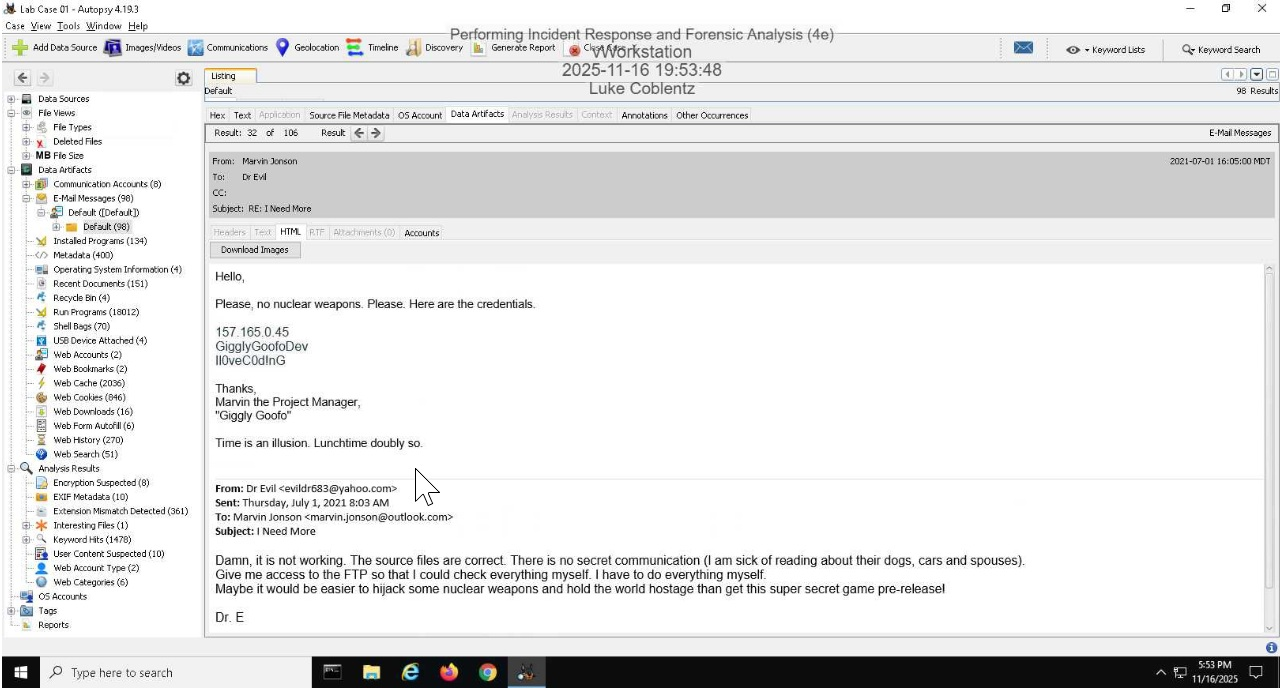
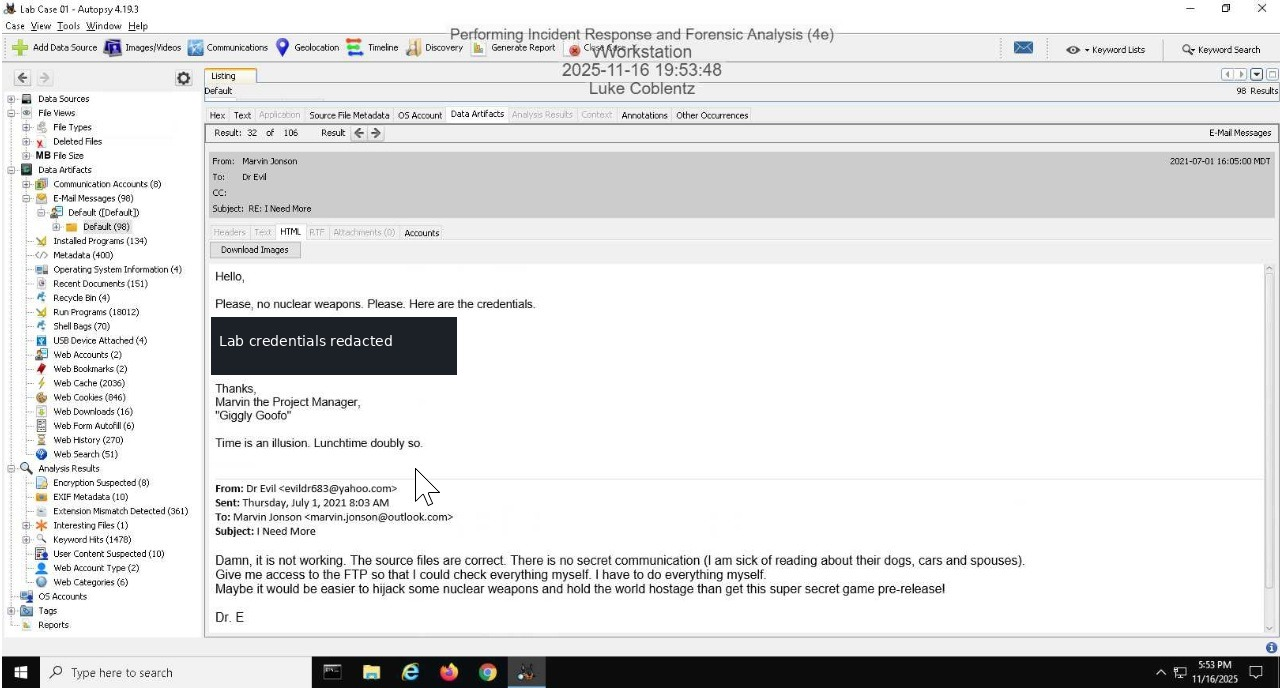
Fix cyber lab documentation and organize evidence

Changed region(s): [[0.1562, 0.4578, 0.375, 0.5494]]

diff --git a/README.md b/README.md
@@ -9,7 +9,7 @@ This repository documents hands-on coursework involving network traffic inspecti
 | Project | Focus | Tools | Documentation |
 |---|---|---|---|
 | **Incident Response & Forensic Analysis** | Investigating suspicious transfers, compromised credentials, and attack timelines in a simulated scenario | Wireshark, Autopsy, Windows Event Logs | [View case study](incident-response.md) |
-| **Network Traffic Analysis** | Inspecting network protocols, comparing plaintext and encrypted communications, and analyzing wireless traffic | Wireshark, Kali Linux | [View case study](packet-analysis.md) |
+| **Network Traffic Analysis** | Inspecting network protocols, documenting an SFTP transfer, and analyzing wireless traffic | Wireshark, FileZilla, Kali Linux | [View case study](packet-analysis.md) |
 | **Vulnerability Assessment & Penetration Testing** | Host discovery, service enumeration, vulnerability assessment, and risk-based remediation | Nmap, Zenmap, Nessus, Kali Linux | [View case study](vulnerability-assessment.md) |
 
 ## Areas of Practice
@@ -24,6 +24,7 @@ This repository documents hands-on coursework involving network traffic inspecti
 ```text
 cyber-labs/
 ├── README.md
+├── EVIDENCE-REVIEW.md
 ├── incident-response.md
 ├── packet-analysis.md
 ├── vulnerability-assessment.md
@@ -33,11 +34,11 @@ cyber-labs/
     └── va-*.jpg  # Vulnerability assessment
 ```
 
-Each project document contains its own objectives, analysis, screenshots, and takeaways. Follow the links in the project table to explore them.
+Each project document contains its own objectives, analysis, screenshots, and takeaways. The screenshots are educational-lab artifacts; captions distinguish visible evidence from interpretation. Follow the links in the project table to explore them.
 
 ## Context & Responsible Use
 
-These are **coursework case studies in controlled training environments**, not claims of authorized testing against production networks. The screenshots illustrate specific lab observations and should be interpreted alongside the individual write-ups. Information from a course scenario is presented for educational purposes.
+These are **coursework case studies in controlled training environments**, not claims of authorized testing against production networks. The screenshots illustrate specific lab observations and should be interpreted alongside the individual write-ups. A FileZilla screenshot displays **SFTP** (not plaintext FTP), and the case-study login values in the incident-response image have been redacted. See [Evidence Review](EVIDENCE-REVIEW.md) for details. Information from a course scenario is presented for educational purposes.
 
 ## Related Work
 

diff --git a/incident-response.md b/incident-response.md
@@ -13,6 +13,7 @@ This project simulates a real-world incident response investigation involving cr
 
 ## Tools Used
 - Wireshark  
+- NetWitness Investigator  
 - Autopsy (Digital Forensics)  
 - Windows Event Logs  
 
@@ -83,38 +84,34 @@ This project simulates a real-world incident response investigation involving cr
 
 ## Screenshots
 
-### Network Activity Timeline
-![Time Graph](screenshots/ir-1-time-graph.jpg)
+*Images are from a simulated course environment. Captions describe what each screenshot visibly supports; see [Evidence Review](EVIDENCE-REVIEW.md).*
 
-This time graph shows spikes in network activity during the incident window, indicating abnormal behavior and potential data exfiltration.
-
----
 
 ### Suspicious Session Analysis
 ![Session Details](screenshots/ir-2-session-details.jpg)
 
-Detailed session analysis revealed FTP activity involving file transfers (.zip and .exe), suggesting unauthorized data movement and possible malware transfer.
+The NetWitness session details show traffic involving an external address, an internal host, FTP activity, ZIP filenames, and an executable filename. These are investigation leads; the screenshot alone does not establish that each file was malicious or exfiltrated.
 
 ---
 
 ### Compromised Credentials Evidence
 ![FTP Credentials](screenshots/ir-3-ftp-credential-email.jpg)
 
-An email containing FTP credentials was identified, confirming that sensitive login information was exposed and used by the attacker.
+An email in the educational case-study dataset contains FTP connection details in its body. The host and login values are redacted in this public version. The email supports a credential-exposure finding; the broader investigation is needed to assess misuse.
 
 ---
 
 ### Malware Activity Timeline
 ![Keylogger Evidence](screenshots/ir-4-keylogger-evidence.jpg)
 
-System timeline analysis revealed events associated with a keylogger, confirming malware installation and persistence on the compromised system.
+Autopsy timeline entries include file activity associated with an `ActualKeylogger` path. These artifacts support investigation of possible keylogger installation; the screenshot by itself does not prove execution or persistence.
 
 ---
 
 ### Phishing / Social Engineering Evidence
 ![Phishing Email](screenshots/ir-5-phishing.jpg)
 
-Email communications demonstrate social engineering tactics used to manipulate the user into installing malicious software, leading to system compromise.
+An email in the lab dataset includes instructions to install a keylogger and a related link. It documents a social-engineering indicator; installation and impact require corroborating forensic evidence.
 
 ---
 

diff --git a/EVIDENCE-REVIEW.md b/EVIDENCE-REVIEW.md
@@ -1,0 +1,23 @@
+# Screenshot Evidence Review
+
+This file records corrections made while preparing the public portfolio version of the **ISM 4323 — Information Security and Risk Management** cybersecurity labs.
+
+## Corrections applied
+
+| Area | Issue | Correction |
+|---|---|---|
+| Incident response | `ir-1-time-graph.jpg` was captioned as a traffic activity graph, but actually showed a FileZilla SFTP client from the separate packet-analysis exercise. It duplicated another screenshot. | Removed it from the incident response write-up and from the repository. The remaining screenshots document the actual incident-response lab. |
+| Network traffic | `pa-1-ftp-transfer.jpg` shows `sftp://` in FileZilla, not unencrypted FTP. | Renamed it `pa-1-sftp-transfer.jpg`, updated the Markdown link, and corrected the description. |
+| Incident response | The email evidence screenshot exposed a simulated scenario's server/login credentials. | Covered the three credential lines in `ir-3-ftp-credential-email.jpg` without removing the rest of the email context. |
+| Evidence language | Several original captions stated a stronger conclusion than a single screenshot established. | Rewrote the affected descriptions to separate what is visible from what requires additional case-study evidence. |
+
+## Evidence inventory
+
+- **Incident response:** 4 distinct screenshots — NetWitness session, redacted Autopsy email, Autopsy timeline, and Autopsy email/social-engineering evidence.
+- **Packet analysis:** 5 distinct screenshots — FileZilla SFTP, Wireshark ICMP, Wireshark HTTP, Wireshark SSH, and a wireless deauthentication test.
+- **Vulnerability assessment:** 6 distinct screenshots — Zenmap/Nmap scanning, Nessus summary, and traceroute.
+- **Total:** **15 unique image files**. All Markdown image references were checked to resolve to files in this repository.
+
+## Scope and limitations
+
+This repository contains self-authored coursework summaries from controlled training environments. Screenshots show selected activities and artifacts; they do **not**, by themselves, verify every investigative conclusion or the full technical configuration. Public-facing screenshots and explanations should not be interpreted as production incidents, live targets, or a certification of professional penetration-testing work.

diff --git a/packet-analysis.md b/packet-analysis.md
@@ -13,6 +13,7 @@ This project demonstrates network traffic analysis using Wireshark to inspect an
 
 ## Tools Used
 - Wireshark  
+- FileZilla  
 - Kali Linux  
 - Network simulation environment  
 
@@ -20,10 +21,10 @@ This project demonstrates network traffic analysis using Wireshark to inspect an
 
 ## Analysis Summary
 
-### 1. File Transfer Traffic (FTP vs SFTP)
-- Observed FTP traffic transmitting data in plaintext  
-- Identified file transfers including credentials and filenames  
-- Compared with SFTP traffic, which encrypts all communication  
+### 1. File Transfer Security (SFTP and FTP comparison)
+- Observed a **FileZilla SFTP session** connecting to a simulated server and listing transferred files  
+- Compared SFTP (transport over SSH) with the confidentiality risks of traditional plaintext FTP  
+- Identified filenames and session status in the SFTP client; the available image **does not show plaintext FTP credentials**  
 
 ### 2. ICMP Packet Analysis
 - Analyzed ICMP packets (ping requests and replies)  
@@ -80,10 +81,13 @@ This project demonstrates network traffic analysis using Wireshark to inspect an
 
 ## Screenshots
 
-### FTP File Transfer (Unencrypted Traffic)
-![FTP Traffic](screenshots/pa-1-ftp-transfer.jpg)
+*Screenshots document the visible lab activities; they do not independently verify every conceptual comparison discussed above.*
 
-This screenshot shows FTP traffic where file transfers occur in plaintext, exposing sensitive information such as filenames and credentials.
+
+### FileZilla SFTP Transfer (Encrypted Protocol)
+![SFTP Client Transfer](screenshots/pa-1-sftp-transfer.jpg)
+
+The FileZilla client displays an `sftp://` connection, a remote file listing, and completed transfers in the simulated environment. This **is SFTP, not plaintext FTP**. The client screenshot illustrates an authenticated SFTP session, not packet-level proof of encrypted payloads.
 
 ---
 
